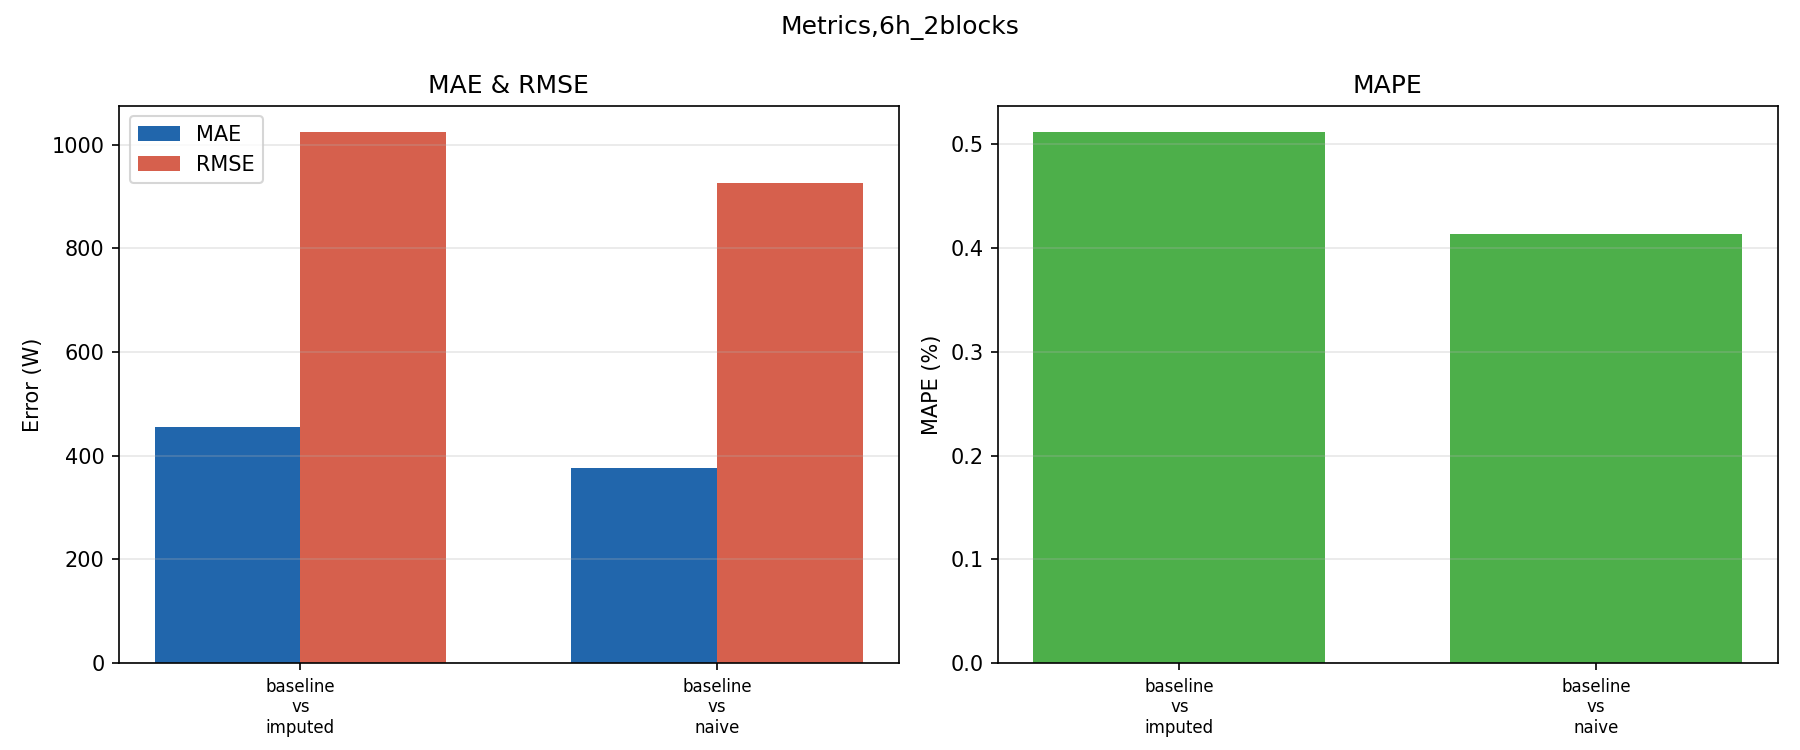
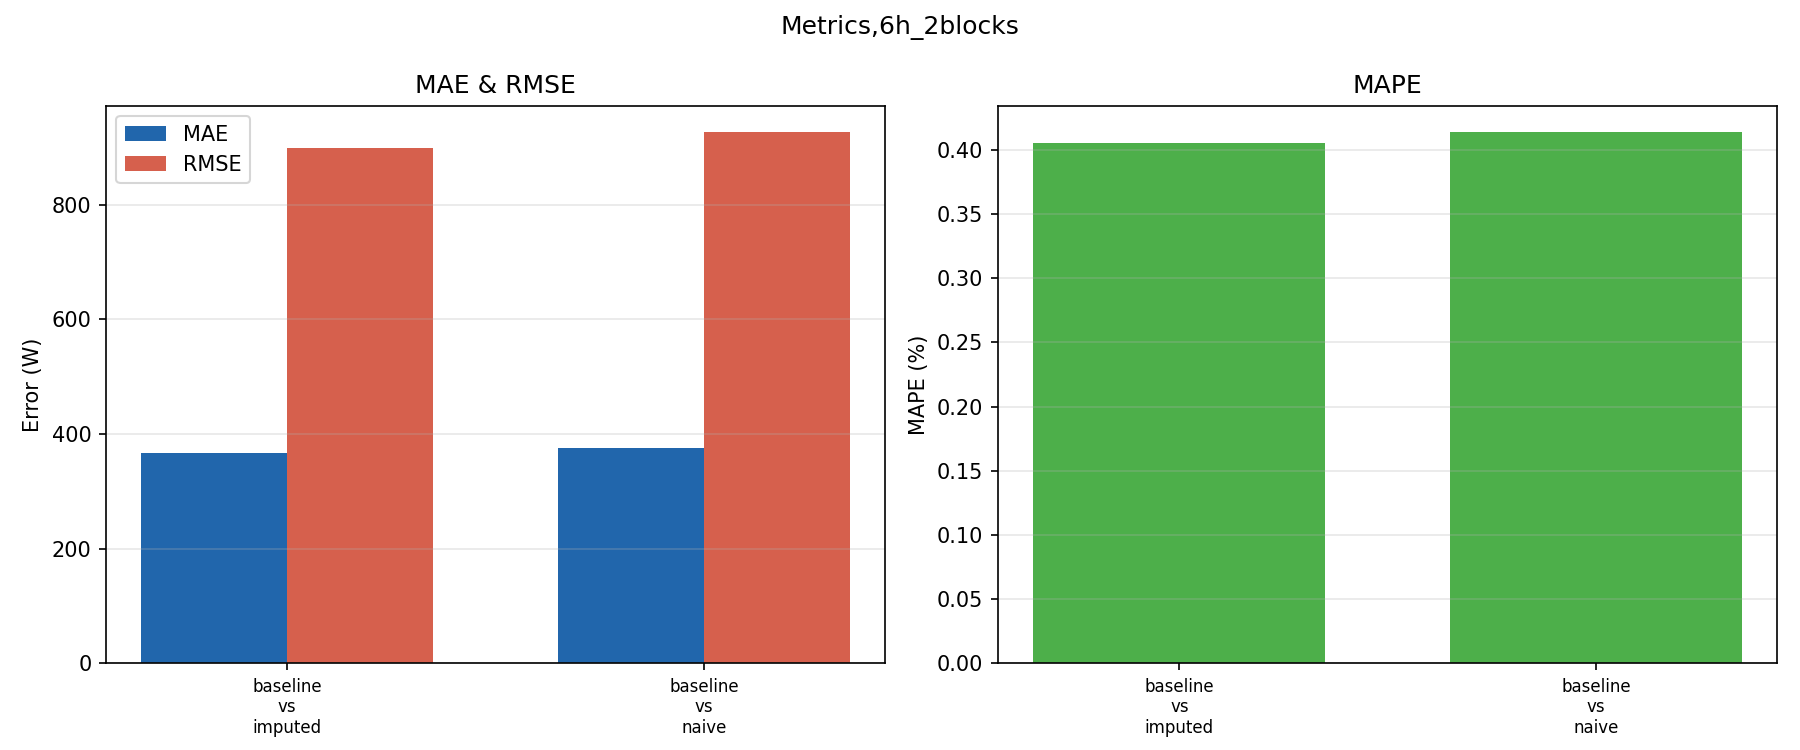
Improved basic algorithm to be better than linear interpolation

diff --git a/demo/imputer.py b/demo/imputer.py
@@ -1,19 +1,19 @@
 """
 Contextual imputation module for the demo.
 
-This file now mirrors the actual algorithm from the reference Python scripts
-(`Algorithmic-simple-solution/contextual_impute.py`) instead of the earlier
-simplified demo-only cascade.
+All gap sizes use a cosine-blended mix of linear interpolation (strong at
+boundaries) and a contextual profile (growing in the centre).  The contextual
+contribution scales with gap length so short gaps are almost purely linear
+while long gaps benefit from daily-shape information.
 
 Gap handling:
-1. Small gaps (<= 3 points): linear interpolation when both neighbours exist.
-2. Medium gaps: contextual slot baselines scaled from surrounding observations.
-3. Long gaps (>= 144 points / 1 day): donor-day reconstruction + contextual
-   scaling + small stochastic noise.
+1. Medium gaps (< 144 points): contextual slot baselines, level-corrected to
+   match boundary-implied mean, blended with linear interpolation.
+2. Long gaps (>= 144 points / 1 day): multi-donor-day average, faded level
+   correction, blended with linear interpolation.
 
 Quality flags returned by ``impute``:
     0 = real/original value
-    1 = linear interpolation
     2 = contextual profile reconstruction
     3 = donor-day reconstruction
 """
@@ -26,14 +26,11 @@ import numpy as np
 import pandas as pd
 
 
-SMALL_GAP_MAX = 3
 LONG_GAP_MIN = 144
 SCALE_MIN = 0.5
 SCALE_MAX = 2.0
-REL_NOISE = 0.03
 MAX_CONTEXT_POINTS = 144
-EDGE_SCALE_MIN = 0.1
-EDGE_SCALE_MAX = 10.0
+MAX_DONOR_DAYS = 5
 
 
 # ====================
@@ -245,6 +242,40 @@ def _choose_donor_day(
     return None, None, None
 
 
+def _choose_donor_days(
+    library: Dict[Tuple[str, int, int], List[Dict[str, object]]],
+    day_type: str,
+    dow: int,
+    month: int,
+    max_donors: int = MAX_DONOR_DAYS,
+) -> Tuple[Optional[np.ndarray], Optional[str]]:
+    """Select up to *max_donors* similar days and return their averaged values.
+
+    Uses the same fallback hierarchy as ``_choose_donor_day`` but averages
+    multiple donors (most-recent first) to reduce variance.
+    """
+    levels = [
+        ("day_type+dow+month", lambda dt, d, m: dt == day_type and d == dow and m == month),
+        ("day_type+dow", lambda dt, d, m: dt == day_type and d == dow),
+        ("day_type", lambda dt, d, m: dt == day_type),
+        ("any", lambda dt, d, m: True),
+    ]
+    for level_name, match_fn in levels:
+        candidates: List[Dict[str, object]] = []
+        for (dt, d, m), arrs in library.items():
+            if match_fn(dt, d, m):
+                candidates.extend(arrs)
+        if not candidates:
+            continue
+        candidates.sort(key=lambda c: c["date"], reverse=True)
+        selected = candidates[: max_donors]
+        min_len = min(len(c["values"]) for c in selected)
+        avg_vals = np.mean([c["values"][:min_len] for c in selected], axis=0)
+        return avg_vals, level_name
+
+    return None, None
+
+
 # =====================
 # Gap detection / scale
 # =====================
@@ -308,19 +339,12 @@ def _apply_edge_continuity(
     prev_value: Optional[float],
     next_value: Optional[float],
     *,
-    edge_scale_min: float = EDGE_SCALE_MIN,
-    edge_scale_max: float = EDGE_SCALE_MAX,
+    edge_scale_min: float = 0.1,
+    edge_scale_max: float = 10.0,
 ) -> np.ndarray:
-    """
-    Multiplicatively rescale an already reconstructed gap so its two edges stay
-    continuous with the nearest observed points.
-
-    This fixes the main failure mode of the 7-day demo: a coarse contextual
-    fallback can pick a profile with the right broad category (for example
-    "weekend") but the wrong local level (for example Saturday-like instead of
-    Sunday-like). The gap shape is kept, but its scale is forced to agree with
-    the observations immediately before/after the block.
-    """
+    """Deprecated -- kept for backward compatibility.  Replaced by
+    ``_blend_linear_contextual`` which achieves boundary continuity without
+    the destructive multiplicative ramp."""
     adjusted = np.asarray(gap_values, dtype=float).copy()
     if adjusted.size == 0:
         return adjusted
@@ -346,6 +370,50 @@ def _apply_edge_continuity(
     adjusted *= ramp
     adjusted[adjusted < 0] = 0.0
     return adjusted
+
+
+def _blend_linear_contextual(
+    contextual: np.ndarray,
+    prev_value: Optional[float],
+    next_value: Optional[float],
+) -> np.ndarray:
+    """Blend a contextual profile with linear interpolation at gap boundaries.
+
+    Uses fixed-width cosine transitions at each edge (up to 18 points / 3 h)
+    so the gap center stays at full contextual strength while boundaries
+    match the observed values exactly.
+
+    For one-sided gaps an exponential decay anchors the known boundary.
+    """
+    gap_len = len(contextual)
+    if gap_len == 0:
+        return contextual.copy()
+
+    result = contextual.copy()
+
+    if prev_value is not None and next_value is not None:
+        linear = np.linspace(prev_value, next_value, gap_len + 2)[1:-1]
+
+        # Global cosine blend: 1 at edges, 0 at center.
+        t = np.arange(1, gap_len + 1, dtype=float) / (gap_len + 1)
+        w_cos = np.cos(np.pi * t) ** 2
+        # Max contextual contribution scales with gap length (tau = 3 days).
+        ctx_max = 1.0 - np.exp(-gap_len / 432.0)
+        w_linear = 1.0 - ctx_max * (1.0 - w_cos)
+        result = w_linear * linear + (1.0 - w_linear) * contextual
+    elif prev_value is not None:
+        tau = max(gap_len / 4.0, 1.0)
+        k = np.arange(gap_len, dtype=float)
+        w = np.exp(-k / tau)
+        result = w * prev_value + (1.0 - w) * contextual
+    elif next_value is not None:
+        tau = max(gap_len / 4.0, 1.0)
+        k = np.arange(gap_len - 1, -1, -1, dtype=float)
+        w = np.exp(-k / tau)
+        result = w * next_value + (1.0 - w) * contextual
+
+    result[result < 0] = 0.0
+    return result
 
 
 # ========================
@@ -394,10 +462,9 @@ def impute(
     date_index,
     quality: Optional[pd.Series] = None,
     *,
-    small_gap_max: int = SMALL_GAP_MAX,
     large_gap_min: int = LONG_GAP_MIN,
-    rel_noise: float = REL_NOISE,
     random_seed: Optional[int] = None,
+    **_kwargs,
 ):
     """
     Impute one consumption series with the reference contextual algorithm.
@@ -478,17 +545,10 @@ def impute(
         if end + 1 < len(values) and not is_na[end + 1]:
             next_idx = end + 1
 
-        # 1) Small gaps: linear interpolation between immediate neighbours.
-        if gap_len <= small_gap_max and prev_idx is not None and next_idx is not None:
-            y_prev = values[prev_idx]
-            y_next = values[next_idx]
-            step = (y_next - y_prev) / (gap_len + 1)
-            for k in range(gap_len):
-                values[start + k] = max(y_prev + step * (k + 1), 0.0)
-            quality_out.iloc[start : end + 1] = 1
-            continue
+        prev_value = values[prev_idx] if prev_idx is not None else None
+        next_value = values[next_idx] if next_idx is not None else None
 
-        # 2) Scale estimation from surrounding context for medium/long gaps.
+        # Scale estimation from surrounding context.
         scale = _estimate_scale_for_gap(
             start=start,
             end=end,
@@ -503,8 +563,11 @@ def impute(
             scale_max=SCALE_MAX,
         )
 
-        # 3) Long gaps: donor-day reconstruction + contextual scaling.
+        # Build raw contextual profile for the gap.
+        contextual = np.zeros(gap_len)
+
         if gap_len >= large_gap_min and len(library) > 0:
+            # --- Long gaps: multi-donor-day reconstruction ---
             gap_dates = np.unique(date_arr[start : end + 1])
 
             for d in gap_dates:
@@ -518,8 +581,8 @@ def impute(
                 dow_i = int(dow_arr[idxs[0]])
                 m_i = int(month_arr[idxs[0]])
 
-                donor_vals, _donor_date, _match_level = _choose_donor_day(
-                    library, dt_i, dow_i, m_i, rng
+                donor_vals, _match_level = _choose_donor_days(
+                    library, dt_i, dow_i, m_i
                 )
 
                 context_scale = None
@@ -535,10 +598,11 @@ def impute(
                         context_scale = mean_last / mean_donor
                         context_scale = max(SCALE_MIN, min(SCALE_MAX, context_scale))
 
-                if dt_i != "open_workday":
-                    context_scale = None
-
-                effective_scale = 0.2 * scale + 0.8 * context_scale if context_scale is not None else scale
+                effective_scale = (
+                    0.3 * scale + 0.7 * context_scale
+                    if context_scale is not None
+                    else scale
+                )
 
                 for i in idxs:
                     s_i = int(slot_arr[i])
@@ -546,51 +610,45 @@ def impute(
                         base = donor_vals[s_i]
                     else:
                         base = get_baseline(dt_i, m_i, s_i)
+                    contextual[i - start] = max(effective_scale * base, 0.0)
 
-                    v = effective_scale * base
-                    if rel_noise > 0:
-                        noise = rng.normal(1.0, rel_noise)
-                        noise = np.clip(noise, 1.0 - 3 * rel_noise, 1.0 + 3 * rel_noise)
-                        v *= noise
+            # Faded level correction for donor path: full at 1 day, decays
+            # for longer gaps where boundary mean is unreliable.
+            if prev_value is not None and next_value is not None:
+                ctx_mean = float(np.mean(contextual))
+                lin_mean = (prev_value + next_value) / 2.0
+                if ctx_mean > 1e-9:
+                    level_trust = np.exp(
+                        -(gap_len - LONG_GAP_MIN) / 72.0
+                    ) if gap_len > LONG_GAP_MIN else 1.0
+                    raw_scale = np.clip(lin_mean / ctx_mean, 0.5, 2.0)
+                    lsc = 1.0 + level_trust * (raw_scale - 1.0)
+                    contextual *= lsc
 
-                    values[i] = max(v, 0.0)
+            flag = 3
+        else:
+            # --- Medium / short gaps: contextual baseline ---
+            for i in range(start, end + 1):
+                dt_i = day_type_arr[i]
+                m_i = int(month_arr[i])
+                s_i = int(slot_arr[i])
+                base = get_baseline(dt_i, m_i, s_i)
+                contextual[i - start] = max(scale * base, 0.0)
 
-            prev_value = values[prev_idx] if prev_idx is not None else None
-            next_value = values[next_idx] if next_idx is not None else None
-            values[start : end + 1] = _apply_edge_continuity(
-                values[start : end + 1],
-                prev_value=prev_value,
-                next_value=next_value,
-            )
+            # Level-correct: match contextual mean to boundary-implied mean.
+            if prev_value is not None and next_value is not None:
+                ctx_mean = float(np.mean(contextual))
+                lin_mean = (prev_value + next_value) / 2.0
+                if ctx_mean > 1e-9:
+                    lsc = np.clip(lin_mean / ctx_mean, 0.5, 2.0)
+                    contextual *= lsc
 
-            quality_out.iloc[start : end + 1] = 3
-            continue
+            flag = 2
 
-        # 4) Medium gaps, or long gaps when donor days are unavailable:
-        #    contextual baseline + gap-level scaling + small noise.
-        for i in range(start, end + 1):
-            dt_i = day_type_arr[i]
-            m_i = int(month_arr[i])
-            s_i = int(slot_arr[i])
-
-            base = get_baseline(dt_i, m_i, s_i)
-            v = scale * base
-            if rel_noise > 0:
-                noise = rng.normal(1.0, rel_noise)
-                noise = np.clip(noise, 1.0 - 3 * rel_noise, 1.0 + 3 * rel_noise)
-                v *= noise
-
-            values[i] = max(v, 0.0)
-
-        prev_value = values[prev_idx] if prev_idx is not None else None
-        next_value = values[next_idx] if next_idx is not None else None
-        values[start : end + 1] = _apply_edge_continuity(
-            values[start : end + 1],
-            prev_value=prev_value,
-            next_value=next_value,
-        )
-
-        quality_out.iloc[start : end + 1] = 2
+        # Blend contextual profile with linear interpolation at boundaries.
+        blended = _blend_linear_contextual(contextual, prev_value, next_value)
+        values[start : end + 1] = blended
+        quality_out.iloc[start : end + 1] = flag
 
     result = pd.Series(values, index=original_index, name=getattr(series, "name", None))
 
